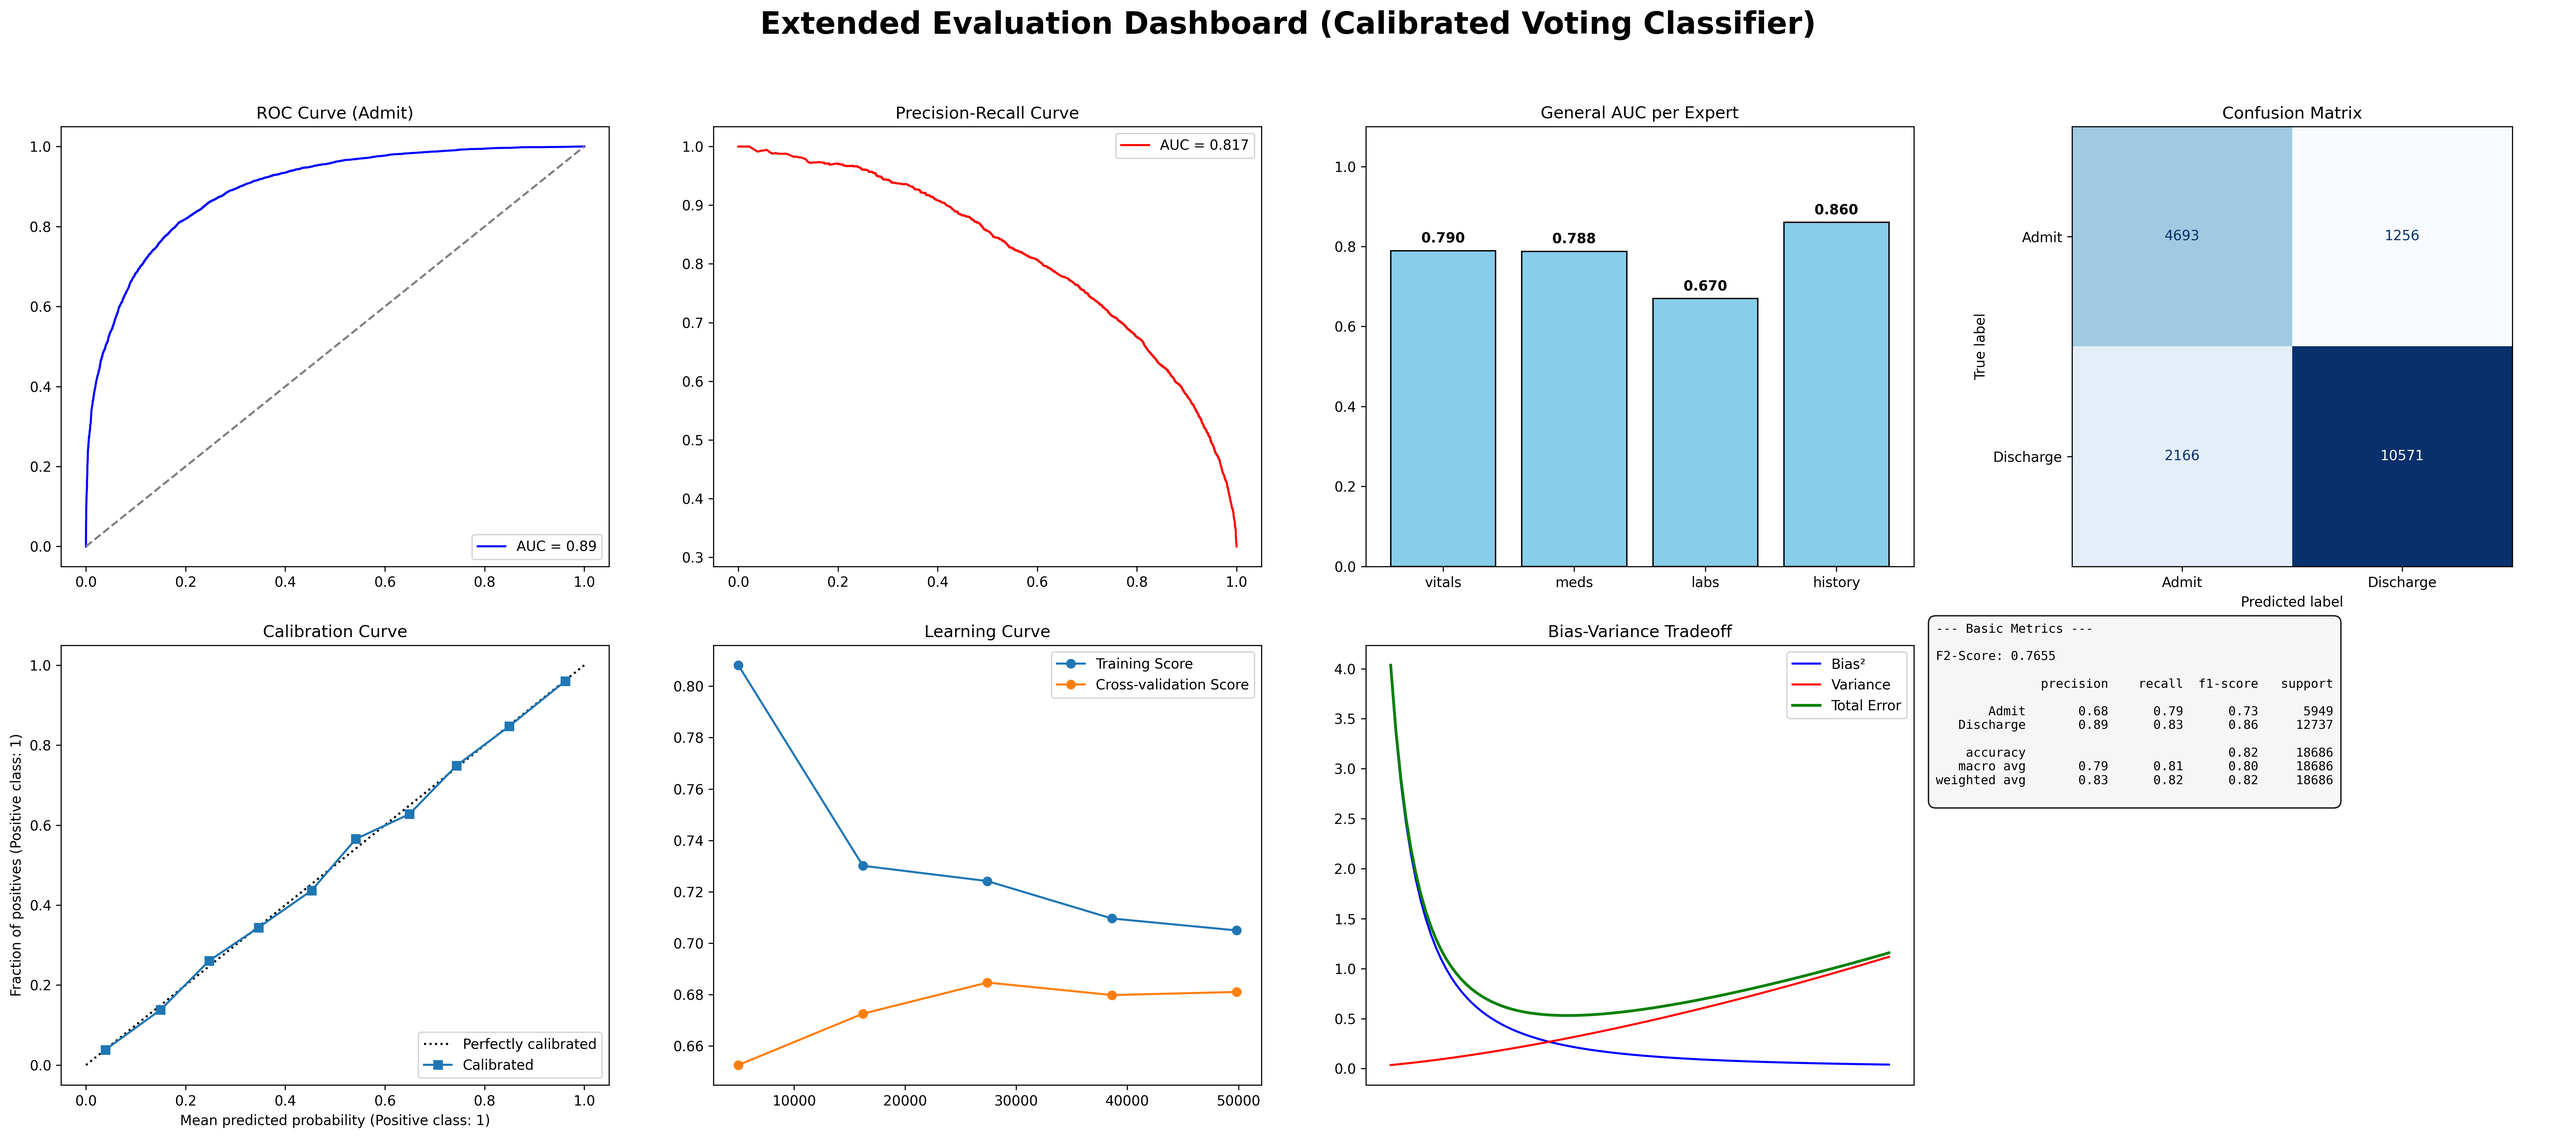
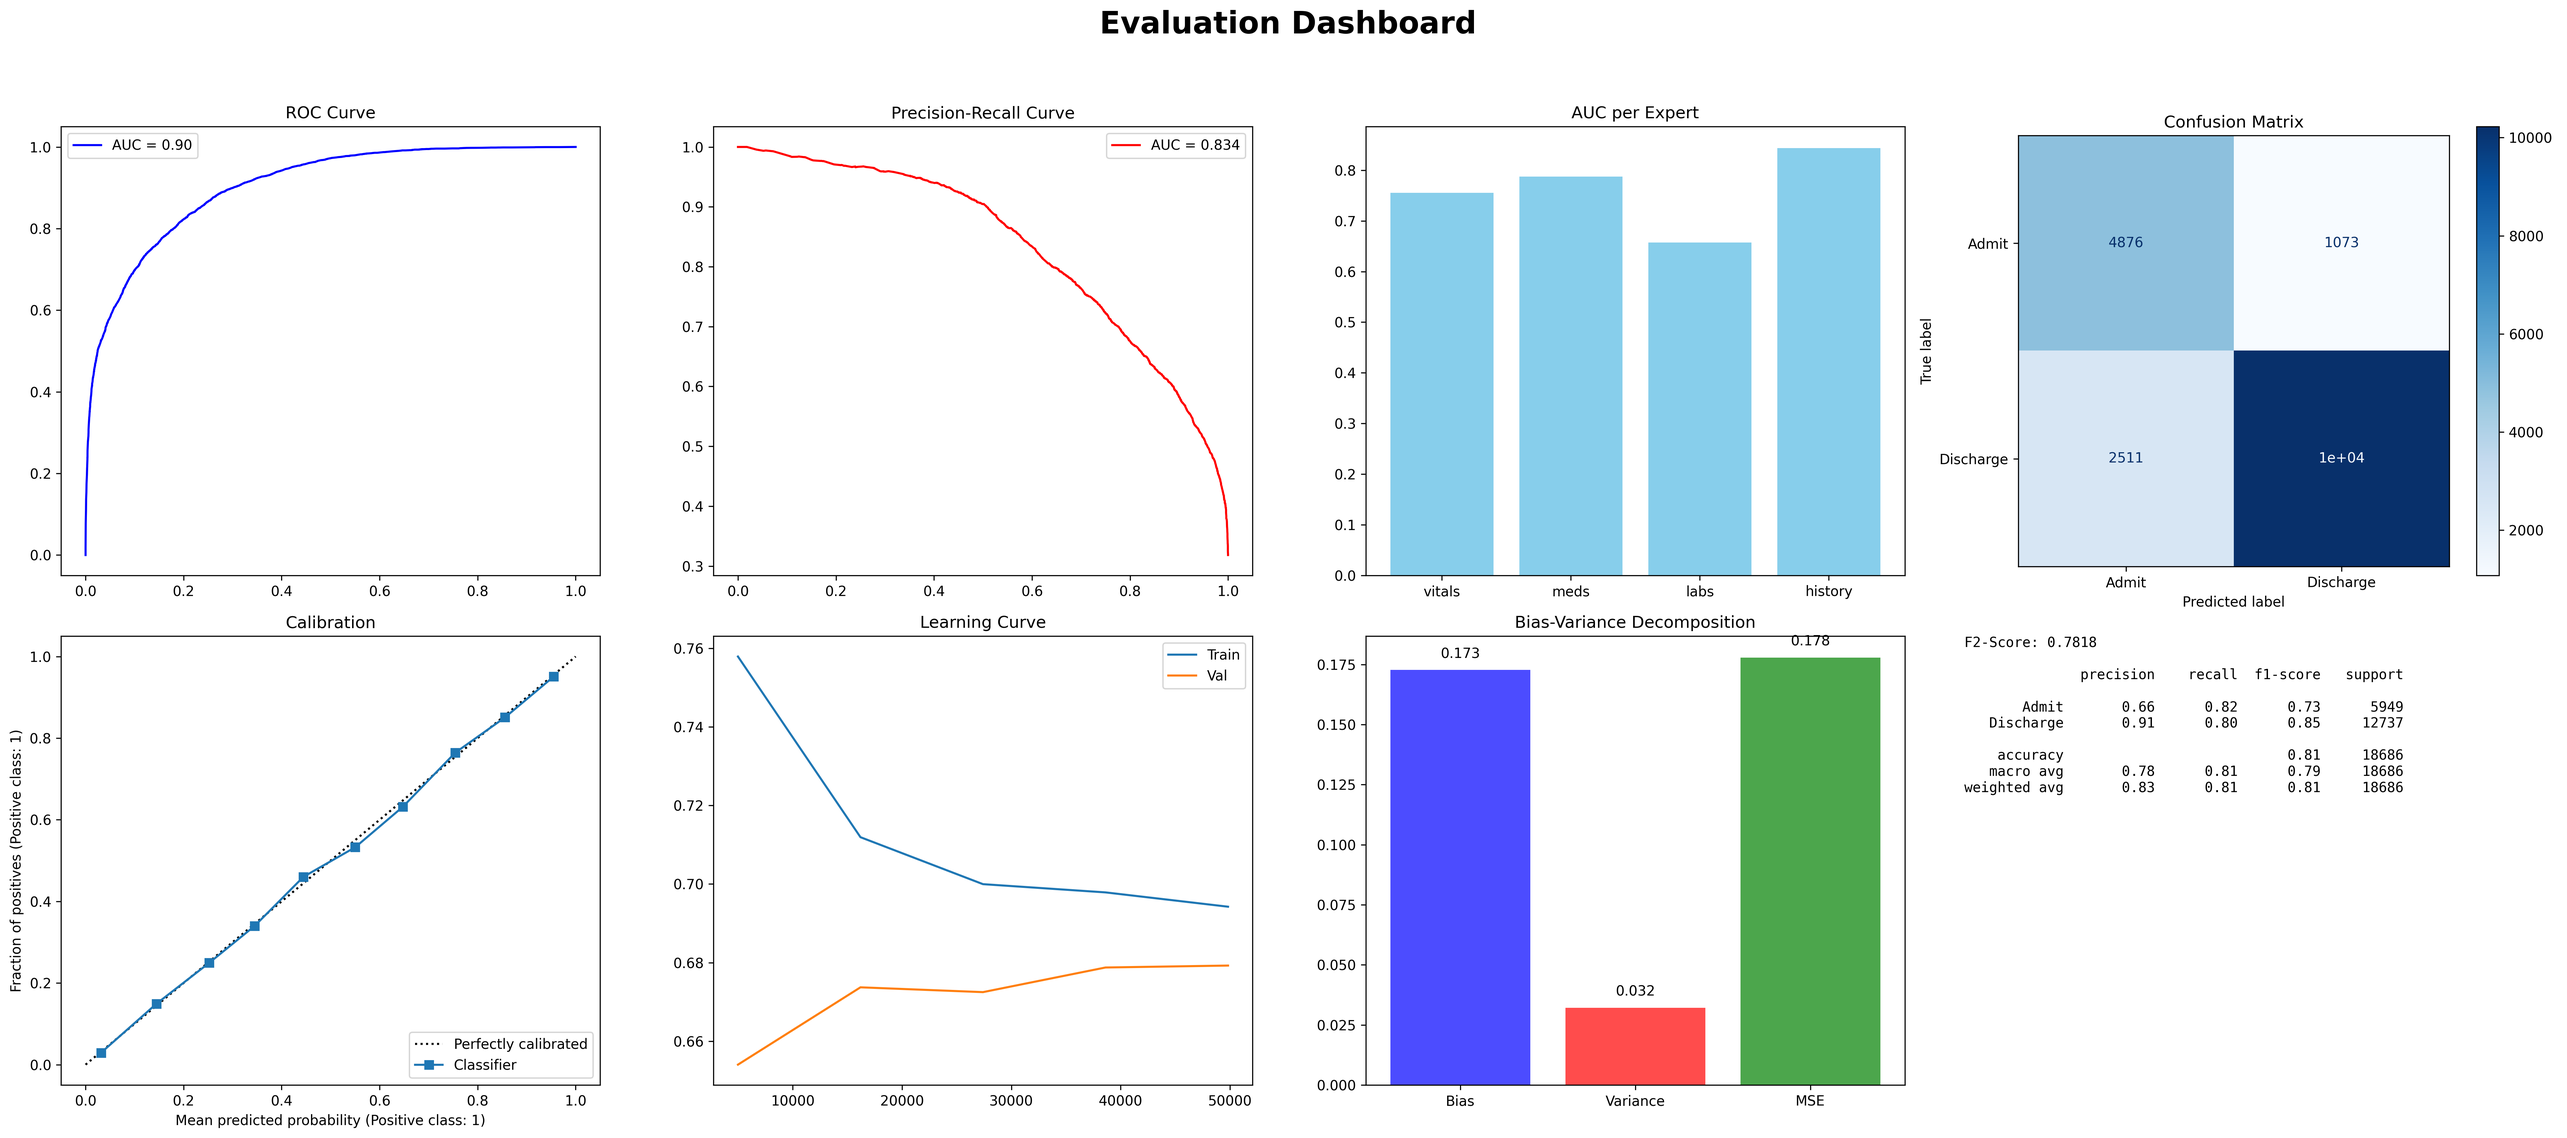
Updated the logic

diff --git a/scripts/triage_soft_voting.py b/scripts/triage_soft_voting.py
@@ -11,11 +11,11 @@ from sklearn.pipeline import Pipeline
 from sklearn.ensemble import VotingClassifier
 from sklearn.model_selection import train_test_split, RandomizedSearchCV, learning_curve
 from sklearn.metrics import (roc_curve, auc, precision_recall_curve, fbeta_score, 
-                             classification_report, confusion_matrix, roc_auc_score,make_scorer,
+                             classification_report, confusion_matrix, roc_auc_score, make_scorer,
                              ConfusionMatrixDisplay)
 from sklearn.calibration import CalibrationDisplay, CalibratedClassifierCV
 from catboost import CatBoostClassifier
-
+from mlxtend.evaluate import bias_variance_decomp
 
 # I reduced the dataset to 40% of the original size and saved it as 'subset.csv'
 
@@ -23,7 +23,7 @@ from catboost import CatBoostClassifier
 #df_subset= df.sample(frac=0.4,random_state=1)
 #df_subset.to_csv('subset.csv',index=False) 
 
-df = pd.read_csv('../data/subset.csv')
+df = pd.read_csv('data/subset.csv')
 X = df.drop('disposition', axis=1) 
 y = df['disposition']
 
@@ -62,77 +62,100 @@ meds_top = [c for c in top_features if c.startswith('meds_') and c not in vitals
 labs_top = [c for c in top_features if any(w in c.lower() for w in ['median', 'min', 'max', 'last']) and c not in vitals_top and c not in meds_top]
 history_top = [c for c in top_features if c not in vitals_top + meds_top + labs_top]
 
-
 X_train = X_train_sel[top_features]
 X_test = X_test_sel[top_features]
 
-# 4 Base learners for each team of features
+def get_indices(df, col_list):
+    return [df.columns.get_loc(c) for c in col_list]
+
+vitals_idx = get_indices(X_train, vitals_top)
+meds_idx = get_indices(X_train, meds_top)
+labs_idx = get_indices(X_train, labs_top)
+history_idx = get_indices(X_train, history_top)
+
+# Base learners for each team of features
 base_learners = [
     ('vitals_expert', Pipeline([
-        ('sel', ColumnTransformer([('keep', 'passthrough', vitals_top)], remainder='drop')),
+        ('sel', ColumnTransformer([('keep', 'passthrough', vitals_idx)], remainder='drop')),
         ('scaler', StandardScaler()), 
-        ('clf', lgb.LGBMClassifier(n_estimators=150, learning_rate=0.05, num_leaves=31, random_state=42, class_weight='balanced',reg_lambda=10, n_jobs=-1, verbosity=-1)) 
+        ('clf', lgb.LGBMClassifier(n_estimators=150, learning_rate=0.05, random_state=42, n_jobs=-1, verbosity=-1,num_leaves=31,reg_lambda=10)) 
     ])),  
     ('meds_expert', Pipeline([
-        ('sel', ColumnTransformer([('keep', 'passthrough', meds_top)], remainder='drop')),
+        ('sel', ColumnTransformer([('keep', 'passthrough', meds_idx)], remainder='drop')),
         ('scaler', StandardScaler()),
-        ('clf', LogisticRegression(class_weight='balanced', max_iter=1000, random_state=42, C=0.01, n_jobs=-1))
+        ('clf', LogisticRegression(max_iter=1000, random_state=42, C=1, n_jobs=-1))
     ])), 
     ('labs_expert', Pipeline([
-        ('sel', ColumnTransformer([('keep', 'passthrough', labs_top)], remainder='drop')),
+        ('sel', ColumnTransformer([('keep', 'passthrough', labs_idx)], remainder='drop')),
         ('scaler', StandardScaler()),
-        ('clf', RandomForestClassifier(n_estimators=200, class_weight='balanced_subsample', max_depth=8, min_samples_leaf=50, max_features=0.5, random_state=42, n_jobs=-1))
+        ('clf', CatBoostClassifier(iterations=300, verbose=0,learning_rate=0.05,depth=6 ,thread_count=-1))
     ])), 
     ('history_expert', Pipeline([
-        ('sel', ColumnTransformer([('keep', 'passthrough', history_top)], remainder='drop')),
+        ('sel', ColumnTransformer([('keep', 'passthrough', history_idx)], remainder='drop')),
         ('scaler', StandardScaler()),
-        ('clf', CatBoostClassifier(iterations=500, learning_rate=0.05, depth=6, verbose=0, thread_count=-1))
+        ('clf', CatBoostClassifier(iterations=300, verbose=0,learning_rate=0.05,depth=6 ,thread_count=-1))
     ]))
 ]
 
-
-# Hyperparameter grid for RandomizedSearchCV 
-param_distributions = {
-    
-    'meds_expert__clf__C': [0.01, 0.05, 0.1],
-    'labs_expert__clf__max_depth': [5, 8, 10], 
-    'weights': [[1.5, 1, 0.5, 1.5], [2, 1, 1, 2], [1, 1, 0.8, 1.2], [1.2, 0.8, 0.5, 2]]
-}
-    
+#  Hyperparameter grid for RandomizedSearchCV 
+param_distributions = {'weights': [
+        [1.5, 2.0, 0.3, 2.5],
+        [1.0, 2.5, 0.2, 3.0],
+        [2.0, 1.5, 0.3, 2.0],
+        [1.2, 2.2, 0.4, 2.8],
+        [0.5, 3.0, 0.1, 3.5],
+        [1.0, 2.0,0.05, 3.0] 
+    ]}
 
 # Initialize the Voting Classifier with 'soft' voting
 Voting_model = VotingClassifier(estimators=base_learners, voting='soft')
 
 # Create Custom Scorer for the admission class
-f2_scorer= make_scorer (fbeta_score,beta=2,pos_label=0)
-
-# Perform Randomized Search Cross-Validation (5-fold) to find the best hyperparameter combination.
+f2_scorer = make_scorer(fbeta_score, beta=2, pos_label=0)
+# Perform Randomized Search Cross-Validation (3-fold) to find the best hyperparameter combination.
 search = RandomizedSearchCV(estimator=Voting_model, param_distributions=param_distributions, 
-                            n_iter=15, cv=5, scoring=f2_scorer, verbose=1, n_jobs=-1, random_state=42)
-search.fit(X_train, y_train)
+                            n_iter=7, cv=3, scoring=f2_scorer, verbose=1, n_jobs=-1, random_state=42)
+search.fit(X_train.values, y_train) 
+#Propability Calibration applied isotonic regression to calibrate the predicted propabilities
+calibrated_model = CalibratedClassifierCV(search.best_estimator_, method='isotonic', cv=3)
+calibrated_model.fit(X_train.values, y_train)
 
-# Propability Calibration applied isotonic regression to calibrate the predicted propabilities
-calibrated_model = CalibratedClassifierCV(search.best_estimator_, method='isotonic', cv=5)
-calibrated_model.fit(X_train, y_train)
+# Bias-Variance Decomposition (mlxtend)
+sample_size = min(5000, len(X_train))
+indices = np.random.choice(len(X_train), sample_size, replace=False)
+X_sample = X_train.values[indices]
+y_sample = y_train[indices]
 
-# Evaluation
+mse, bias, var = bias_variance_decomp(
+    search.best_estimator_, 
+    X_sample, y_sample, 
+    X_test.values, y_test, 
+    loss='0-1_loss', num_rounds=10, random_seed=42
+)
+
+# Evaluation 
 
 # Extract probalities for the Admit class
-y_prob_admit = calibrated_model.predict_proba(X_test)[:, 0]
+y_prob_admit = calibrated_model.predict_proba(X_test.values)[:, 0]
+# Try 100 thresholds in order to get the one that maximizes f2 score
+thresholds=np.linspace(0,1,100)
+f2_scores = [fbeta_score(y_test, np.where(y_prob_admit > t, 0, 1), beta=1.2, pos_label=0) for t in thresholds]
+best_threshold = thresholds[np.argmax(f2_scores)]
+best_f2_score = max(f2_scores)
 # Sensitivity threshold to prioritize admissions
-y_pred_custom = np.where(y_prob_admit > 0.35, 0, 1)
+y_pred_custom = np.where(y_prob_admit > best_threshold, 0, 1)
 y_test_admit = (y_test == 0).astype(int)
 
-# f2 score
+# f2 scorer
 f2_admit = fbeta_score(y_test, y_pred_custom, beta=2, pos_label=0)
 # Classification report
 report = classification_report(y_test, y_pred_custom, target_names=label_enc.classes_)
 # Confusion Matrix
 cm = confusion_matrix(y_test, y_pred_custom)
 
-# Learning Curve 
+# Learning Curve
 train_sizes, train_scores, val_scores = learning_curve(
-    estimator=calibrated_model, X=X_train, y=y_train, train_sizes=np.linspace(0.1, 1.0, 5),
+    estimator=calibrated_model, X=X_train.values, y=y_train, train_sizes=np.linspace(0.1, 1.0, 5),
     cv=3, scoring=f2_scorer, n_jobs=-1, random_state=42
 )
 train_mean = np.mean(train_scores, axis=1)
@@ -140,49 +163,45 @@ val_mean = np.mean(val_scores, axis=1)
 
 # Dashboard Setup
 fig, axes = plt.subplots(2, 4, figsize=(26, 12))
-fig.suptitle('Extended Evaluation Dashboard (Calibrated Voting Classifier)', fontsize=22, fontweight='bold', y=0.98)
+fig.suptitle('Evaluation Dashboard', fontsize=22, fontweight='bold', y=0.98)
 
+# ROC & PR Curves
 fpr, tpr, _ = roc_curve(y_test, y_prob_admit, pos_label=0)
 axes[0, 0].plot(fpr, tpr, color='blue', label=f'AUC = {auc(fpr, tpr):.2f}')
-axes[0, 0].plot([0, 1], [0, 1], linestyle='--', color='gray'); axes[0, 0].set_title('ROC Curve (Admit)'); axes[0, 0].legend(loc='lower right')
+axes[0, 0].set_title('ROC Curve'); axes[0, 0].legend()
 
 precision, recall, _ = precision_recall_curve(y_test, y_prob_admit, pos_label=0)
 axes[0, 1].plot(recall, precision, color='red', label=f'AUC = {auc(recall, precision):.3f}')
 axes[0, 1].set_title('Precision-Recall Curve'); axes[0, 1].legend()
 
-expert_names, expert_aucs = [], []
-for i, (name, _) in enumerate(calibrated_model.estimator.estimators):
-    expert_model = calibrated_model.estimator.estimators_[i]
-    prob = expert_model.predict_proba(X_test)[:, 1]
-    expert_names.append(name.replace('_expert', ''))
-    expert_aucs.append(roc_auc_score(y_test, prob))
-axes[0, 2].bar(expert_names, expert_aucs, color='skyblue', edgecolor='black')
-axes[0, 2].set_title('General AUC per Expert'); axes[0, 2].set_ylim(0, 1.1)
-for i, v in enumerate(expert_aucs): axes[0, 2].text(i, v + 0.02, f'{v:.3f}', ha='center', fontweight='bold')
+# Expert Performance
+expert_names = [name.replace('_expert', '') for name, _ in calibrated_model.estimator.estimators]
+expert_aucs = [roc_auc_score(y_test, calibrated_model.estimator.estimators_[i].predict_proba(X_test.values)[:, 1]) for i in range(len(expert_names))]
+axes[0, 2].bar(expert_names, expert_aucs, color='skyblue')
+axes[0, 2].set_title('AUC per Expert')
 
-ConfusionMatrixDisplay(confusion_matrix=cm, display_labels=label_enc.classes_).plot(ax=axes[0, 3], cmap='Blues', colorbar=False,values_format='d')
+# Confusion Matrix
+ConfusionMatrixDisplay(confusion_matrix=cm, display_labels=label_enc.classes_).plot(ax=axes[0, 3], cmap='Blues')
 axes[0, 3].set_title('Confusion Matrix')
 
-CalibrationDisplay.from_predictions(y_test_admit, y_prob_admit, n_bins=10, name='Calibrated', ax=axes[1, 0])
-axes[1, 0].set_title('Calibration Curve')
+# Calibration & Learning Curves
+CalibrationDisplay.from_predictions(y_test_admit, y_prob_admit, n_bins=10, ax=axes[1, 0])
+axes[1, 0].set_title('Calibration')
 
-axes[1, 1].plot(train_sizes, train_mean, 'o-', label='Training Score')
-axes[1, 1].plot(train_sizes, val_mean, 'o-', label='Cross-validation Score')
+axes[1, 1].plot(train_sizes, train_mean, label='Train'); axes[1, 1].plot(train_sizes, val_mean, label='Val')
 axes[1, 1].set_title('Learning Curve'); axes[1, 1].legend()
 
-x_bv = np.linspace(0.5, 5, 100)
-axes[1, 2].plot(x_bv, 1/x_bv**2, label='Bias²', color='blue'); axes[1, 2].plot(x_bv, 0.1*x_bv**1.5, label='Variance', color='red')
-axes[1, 2].plot(x_bv, (1/x_bv**2)+(0.1*x_bv**1.5), label='Total Error', color='green', linewidth=2)
-axes[1, 2].set_title('Bias-Variance Tradeoff'); axes[1, 2].legend(); axes[1, 2].get_xaxis().set_ticks([])
+# Bias-Variance Bar Chart
+axes[1, 2].bar(['Bias', 'Variance', 'MSE'], [bias, var, mse], color=['blue', 'red', 'green'], alpha=0.7)
+axes[1, 2].set_title('Bias-Variance Decomposition')
+for i, v in enumerate([bias, var, mse]): axes[1, 2].text(i, v + 0.005, f'{v:.3f}', ha='center')
 
+# Metrics Text
 axes[1, 3].axis('off')
-text_str = f"--- Basic Metrics ---\n\nF2-Score: {f2_admit:.4f}\n\n{report}"
-axes[1, 3].text(-0.15, 1.05, text_str, fontsize=9, family='monospace', va='top', ha='left',
-               bbox=dict(boxstyle='round,pad=0.6', facecolor='whitesmoke', alpha=0.9))
+axes[1, 3].text(-0.1, 1.0, f"F2-Score: {f2_admit:.4f}\n\n{report}", fontsize=10, family='monospace', va='top')
 
 plt.tight_layout(rect=[0, 0.03, 1, 0.95])
-
 # Save the dashboard 
-plt.savefig('../plots/soft_voting_eval.png', dpi=300, bbox_inches='tight')
+plt.savefig('plots/soft_voting_eval.png', dpi=300, bbox_inches='tight')
 # Show the dashboard
 plt.show()
